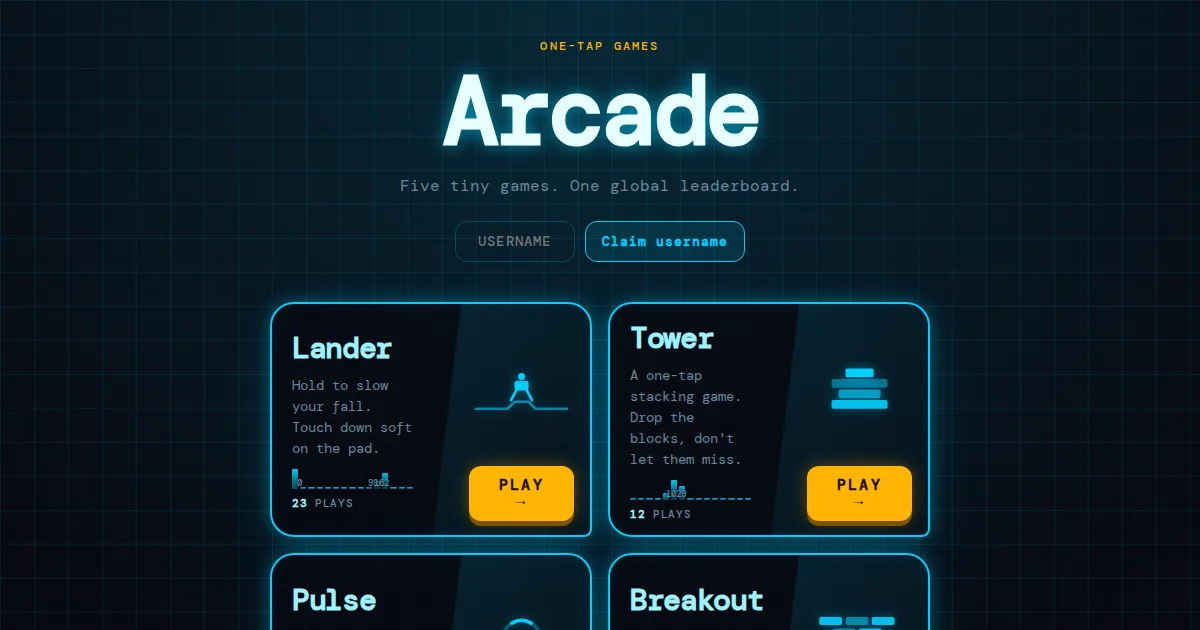
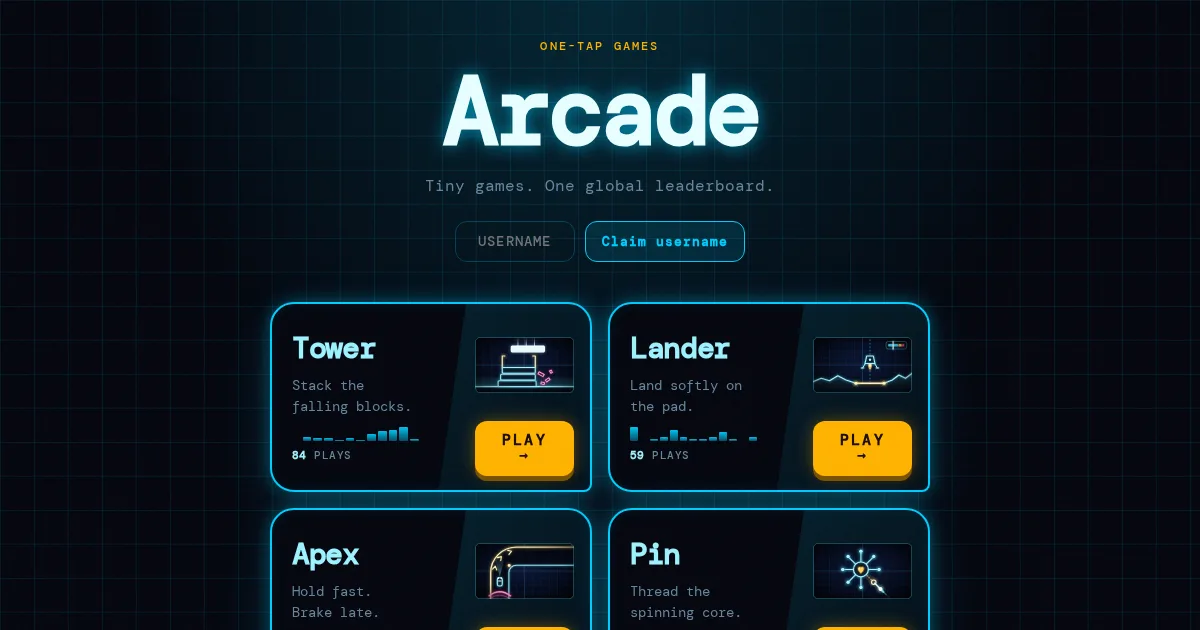
Fresh Selected Builds previews from live sites; Arcade last; fix Scoracle link to scoreacle.vercel.app

diff --git a/index.html b/index.html
@@ -41,10 +41,10 @@
       </div></section>
       <section id="projects" class="content-section"><h2 class="section-heading">Selected Builds</h2><p class="section-subtitle">Hands-on product and engineering work</p><div class="projects-grid">
         <a href="https://where-on.earth" target="_blank" rel="noopener noreferrer" class="project-card"><div class="project-image-wrap"><img src="assets/projects/where-on-earth-preview.webp" alt="Where on Earth daily geography game" class="project-image" width="1200" height="630" loading="lazy" decoding="async" /></div><div class="project-info"><h3>Where on Earth</h3><p>A daily geography game on a satellite map stitched from open-source EOX imagery: five places a day, pin-distance scoring, 800+ locations, collectible postcards.</p></div></a>
-        <a href="https://timesurf.tv" target="_blank" rel="noopener noreferrer" class="project-card"><div class="project-image-wrap"><img src="assets/projects/timesurf-preview.png" alt="TimeSurf.TV interface" class="project-image" width="1200" height="630" loading="lazy" decoding="async" /></div><div class="project-info"><h3>TimeSurf.TV</h3><p>A year-by-year video discovery product that turns browsing by era into a channel-surfing experience, built in vanilla JavaScript and deployed on Vercel.</p></div></a>
-        <a href="https://fantasyfootballopen.com" target="_blank" rel="noopener noreferrer" class="project-card"><div class="project-image-wrap"><img src="assets/projects/ffo-preview.png" alt="Fantasy Football Open interface" class="project-image" width="1200" height="630" loading="lazy" decoding="async" /></div><div class="project-info"><h3>Fantasy Football Open</h3><p>A season-long salary-cap game with roster rules, persistent leagues, and global leaderboards, built with React, TypeScript, and PostgreSQL.</p></div></a>
+        <a href="https://timesurf.tv" target="_blank" rel="noopener noreferrer" class="project-card"><div class="project-image-wrap"><img src="assets/projects/timesurf-preview.webp" alt="TimeSurf.TV interface" class="project-image" width="1200" height="630" loading="lazy" decoding="async" /></div><div class="project-info"><h3>TimeSurf.TV</h3><p>A year-by-year video discovery product that turns browsing by era into a channel-surfing experience, built in vanilla JavaScript and deployed on Vercel.</p></div></a>
+        <a href="https://fantasyfootballopen.com" target="_blank" rel="noopener noreferrer" class="project-card"><div class="project-image-wrap"><img src="assets/projects/ffo-preview.webp" alt="Fantasy Football Open interface" class="project-image" width="1200" height="630" loading="lazy" decoding="async" /></div><div class="project-info"><h3>Fantasy Football Open</h3><p>A season-long salary-cap game with roster rules, persistent leagues, and global leaderboards, built with React, TypeScript, and PostgreSQL.</p></div></a>
+        <a href="https://scoreacle.vercel.app" target="_blank" rel="noopener noreferrer" class="project-card"><div class="project-image-wrap"><img src="assets/projects/scoracle-preview.webp" alt="Scoracle sports analytics interface" class="project-image" width="1200" height="630" loading="lazy" decoding="async" /></div><div class="project-info"><h3>Scoracle</h3><p>A live sports analytics dashboard that turns dense box-score data into a fast, filterable comparison view.</p></div></a>
         <a href="https://one-tap-arcade.vercel.app" target="_blank" rel="noopener noreferrer" class="project-card"><div class="project-image-wrap"><img src="assets/projects/arcade-preview.webp" alt="One-Tap Arcade game collection" class="project-image" width="1200" height="630" loading="lazy" decoding="async" /></div><div class="project-info"><h3>One-Tap Arcade</h3><p>A collection of single-input browser games designed around a shared interaction model, persistent identity, and global leaderboards.</p></div></a>
-        <a href="https://scoreacle.vercel.app" target="_blank" rel="noopener noreferrer" class="project-card"><div class="project-image-wrap"><img src="assets/projects/scoracle-preview.png" alt="Scoracle sports analytics interface" class="project-image" width="1200" height="630" loading="lazy" decoding="async" /></div><div class="project-info"><h3>Scoracle</h3><p>A live sports analytics dashboard that turns dense box-score data into a fast, filterable comparison view.</p></div></a>
       </div><a href="https://github.com/seangartland" target="_blank" rel="noopener noreferrer" class="evidence-link">View technical evidence on GitHub <span aria-hidden="true">→</span></a></section>
       <section id="skills" class="content-section"><h2 class="section-heading">Capabilities</h2><p class="section-subtitle">Leadership range and technical fluency</p><div class="capability-matrix"><article><h3>Leadership</h3><ul><li>Data strategy</li><li>Team building</li><li>Executive partnership</li><li>Governance</li><li>Self-service analytics</li></ul></article><article><h3>AI and analytics</h3><ul><li>Agent orchestration</li><li>MCP</li><li>Semantic layers</li><li>Snowflake</li><li>Sigma</li><li>SQL</li><li>Python</li></ul></article><article><h3>Product engineering</h3><ul><li>TypeScript</li><li>JavaScript</li><li>React</li><li>PostgreSQL</li><li>Docker</li><li>Git</li></ul></article></div></section>
       <section id="contact" class="content-section contact-section"><p class="panel-kicker">Contact</p><h2 class="section-heading">Let's talk</h2><p>I'm exploring leadership roles where I can build strong data teams, governed analytics platforms, and practical AI capabilities.</p><a class="button-link" href="https://www.linkedin.com/in/seangartland" target="_blank" rel="noopener noreferrer">Connect with Sean on LinkedIn</a></section>
